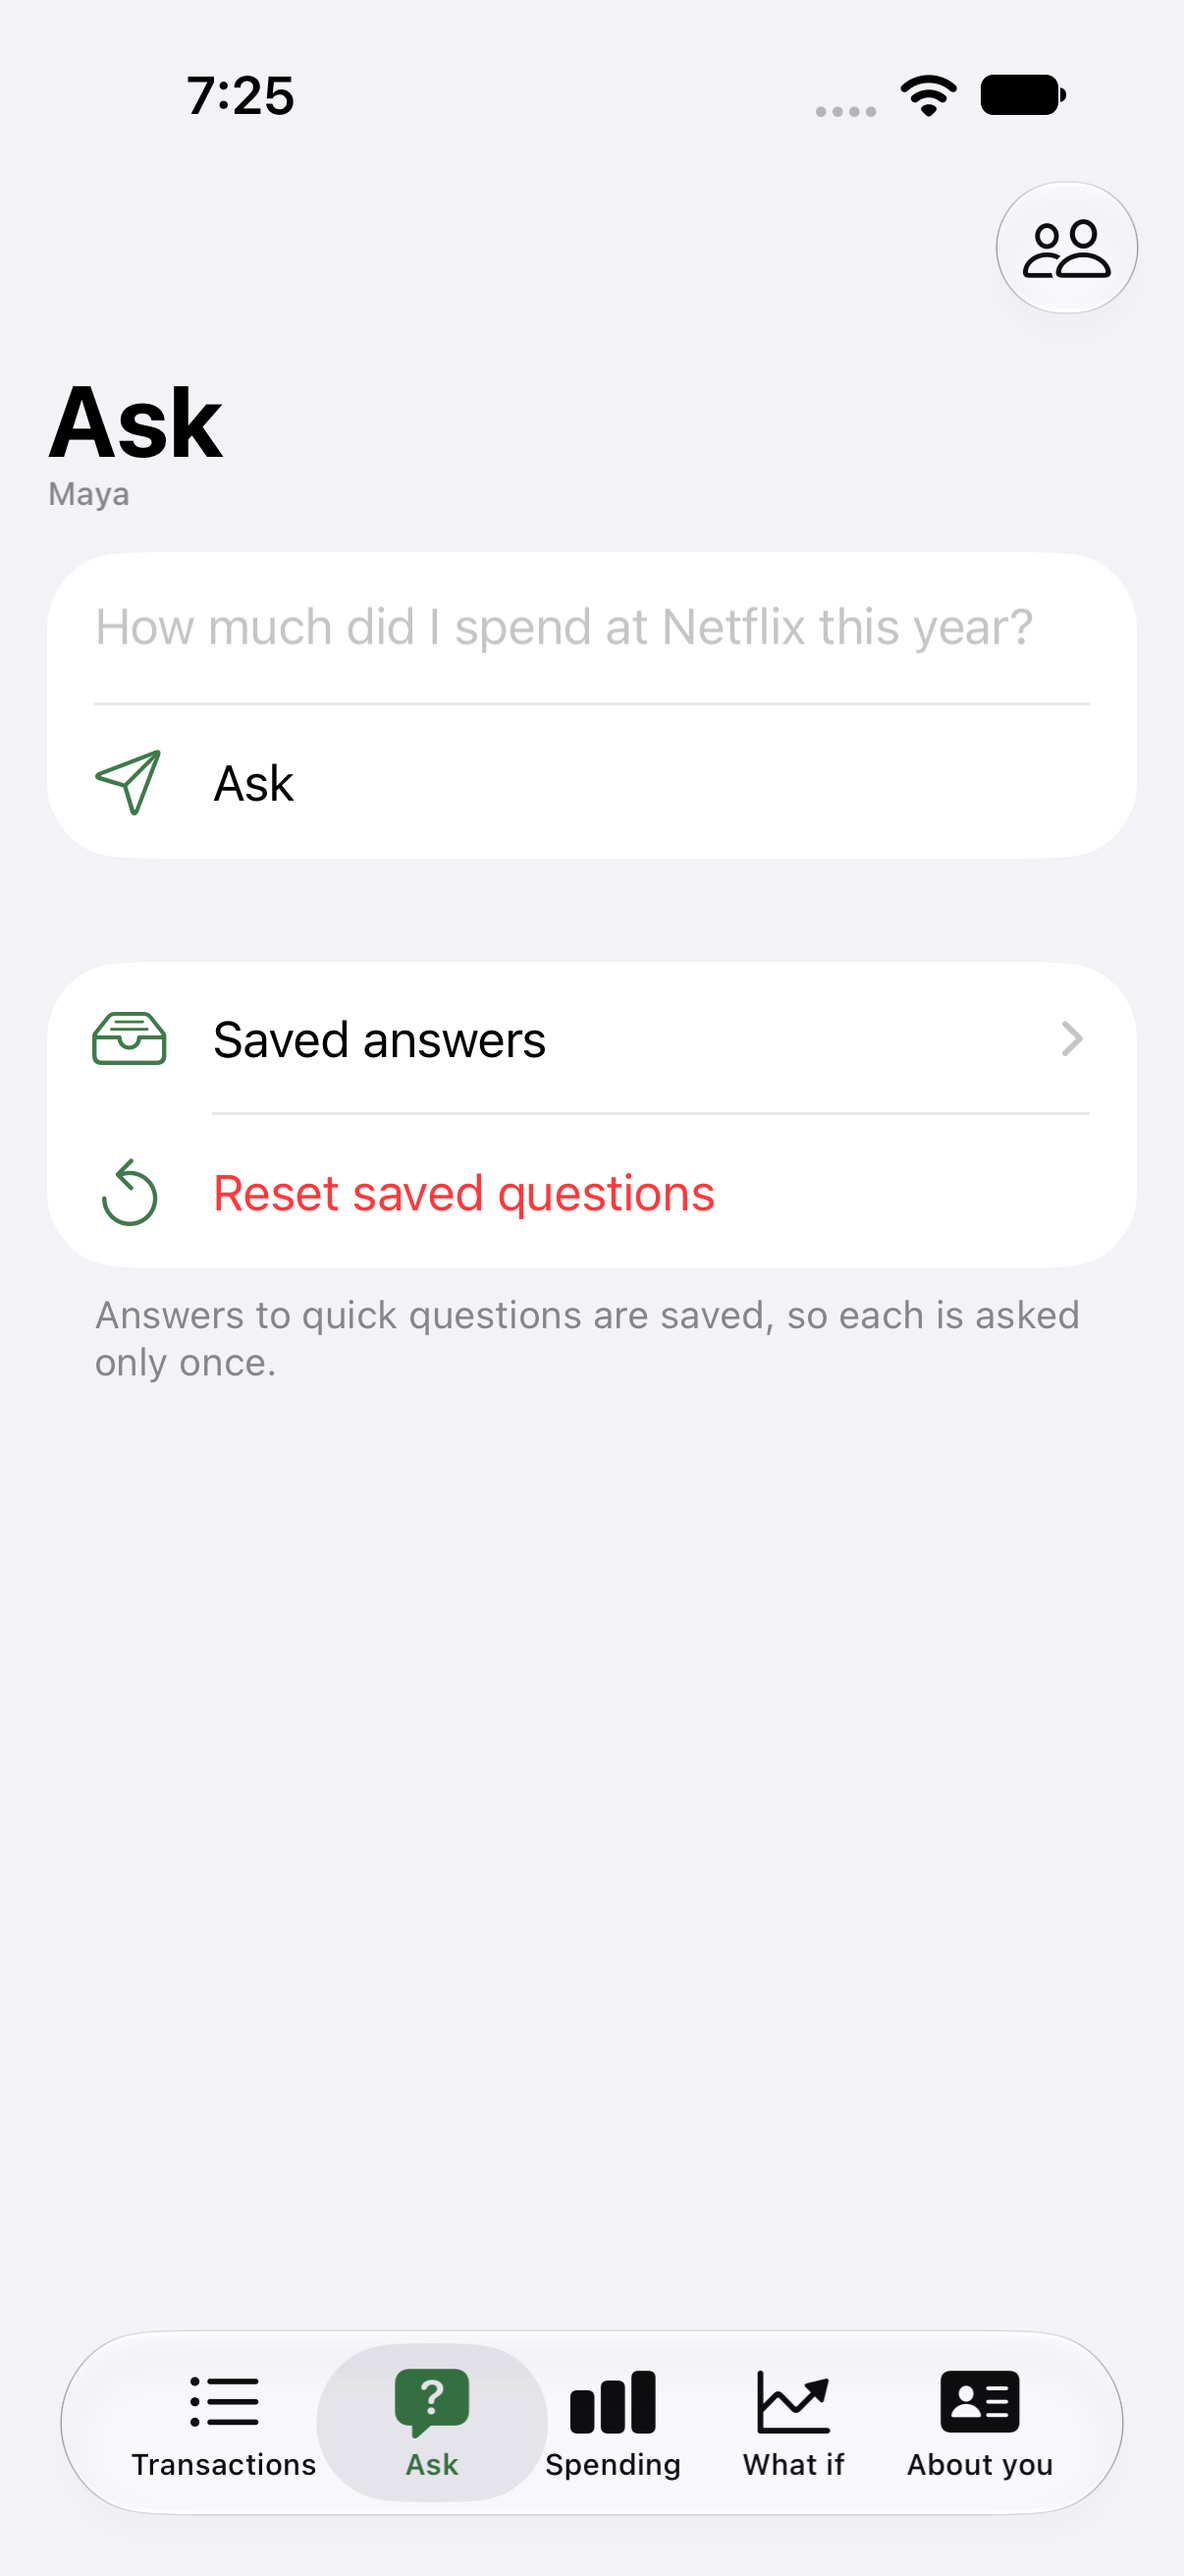
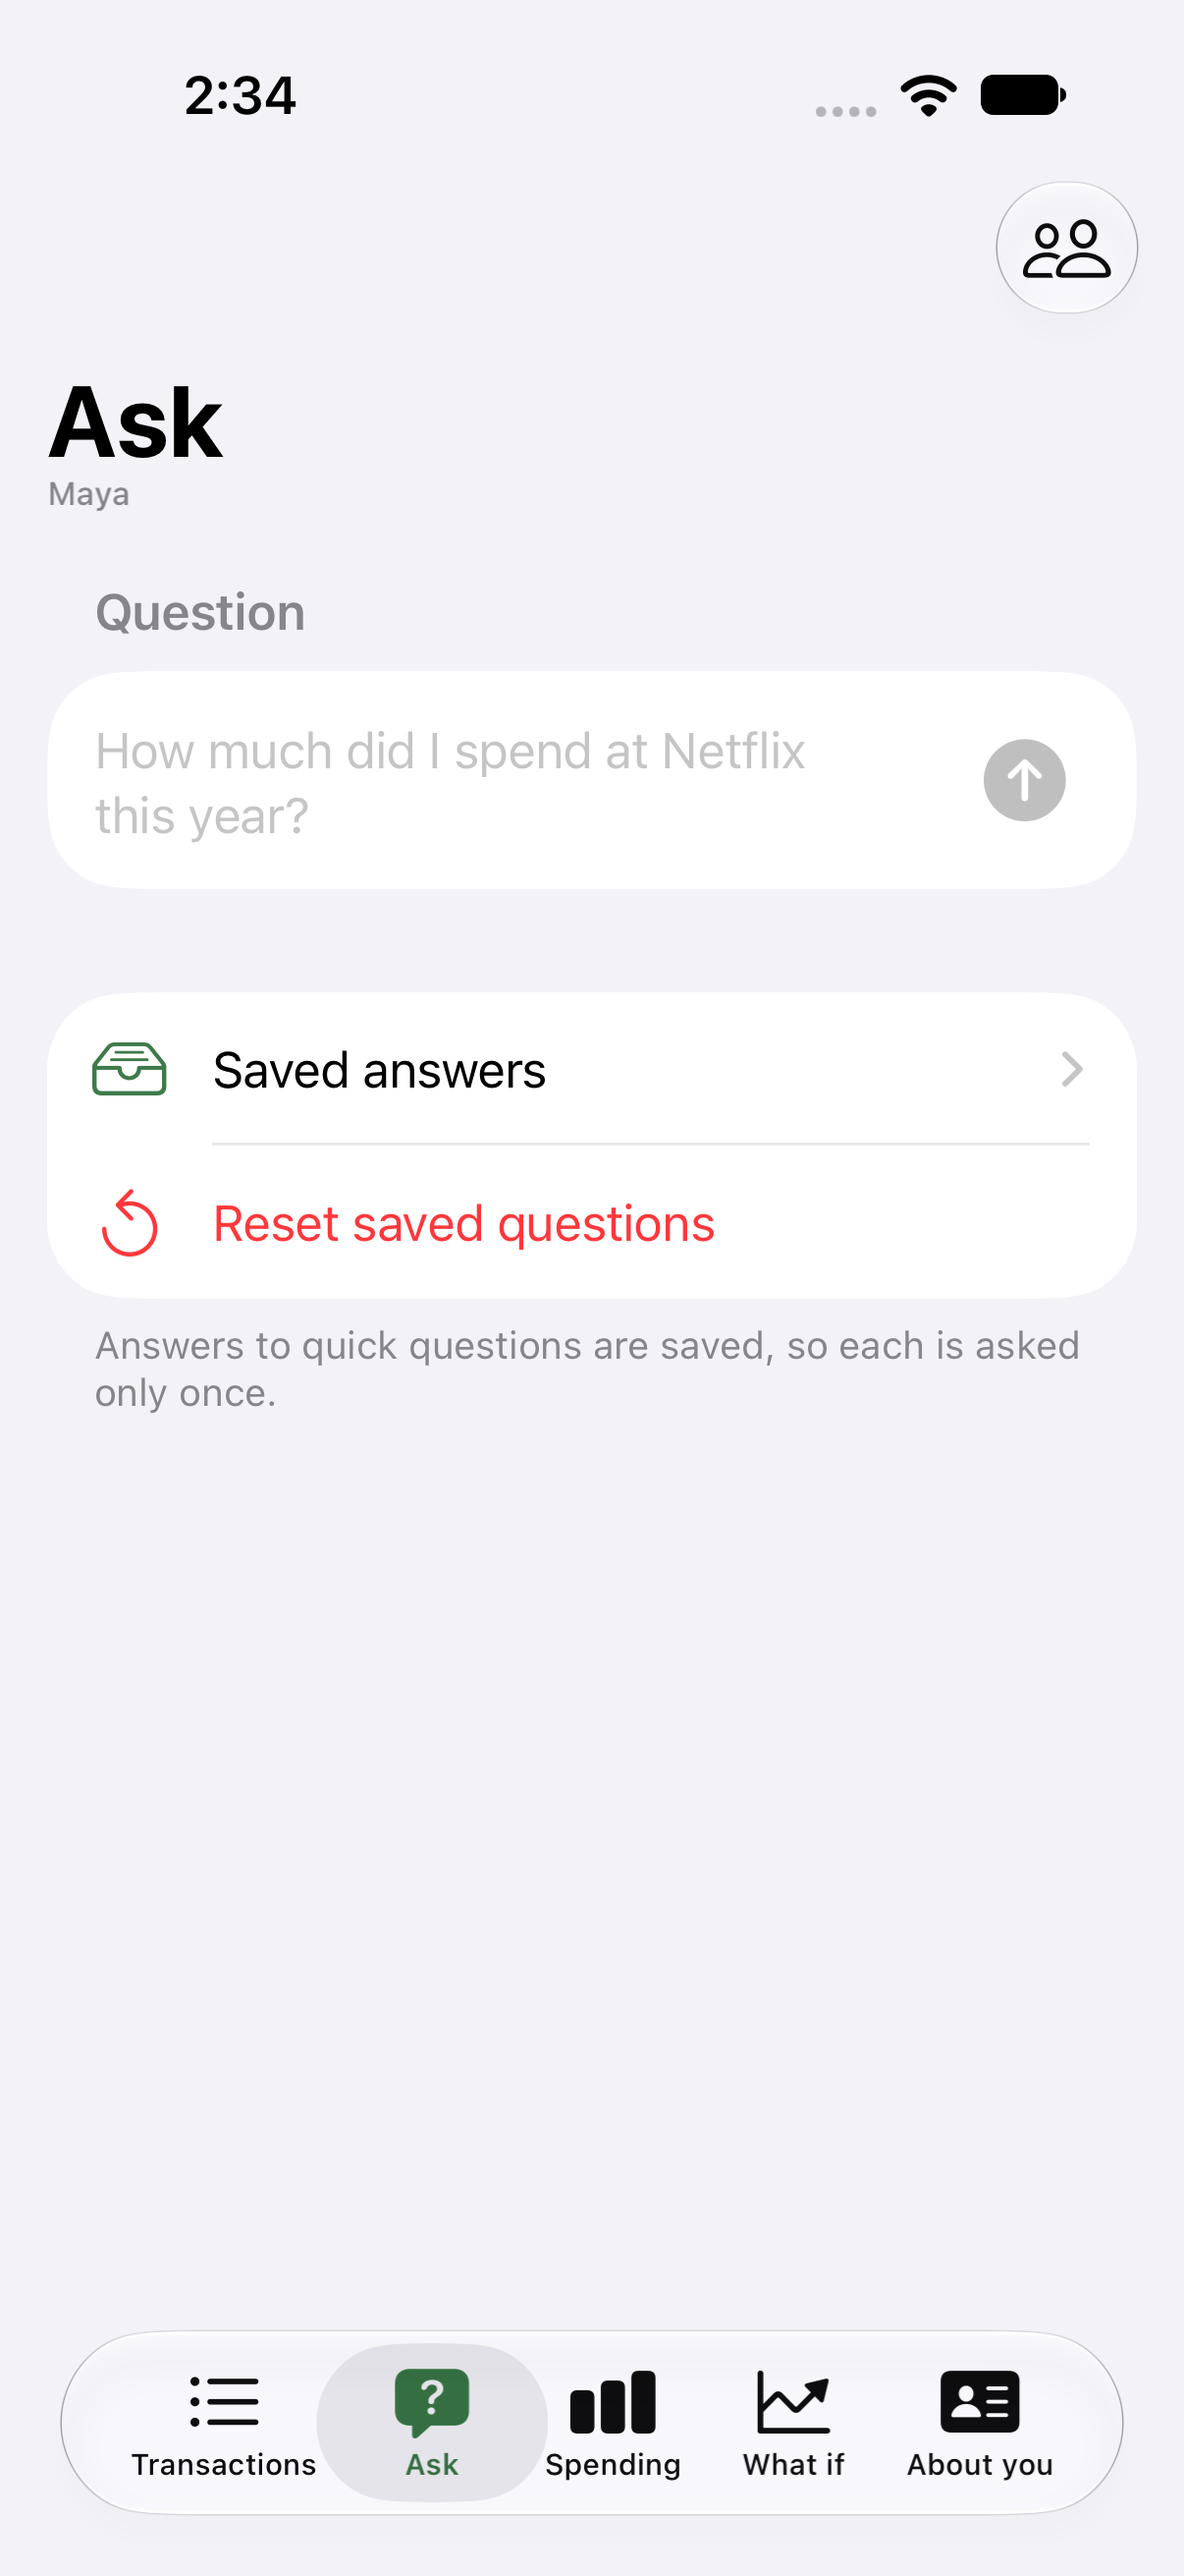
Clean up leftovers in the repo (#65) (#66)

diff --git a/docs/assumptions.md b/docs/assumptions.md
@@ -74,7 +74,7 @@ To add a rule, add one line under its area in the same shape as the others: the 
 - Every card statement closes on the last day of the month and is paid in full. — `Simulator.swift` `simulate`
 - A card is paid from the account of its latest matched payment, on the day of the month of its latest payment, for what it owed at the last month end less what was paid since. — `Simulator.swift` `simulate`
 
-## Assistant and tools
+## Tools and saved answers
 
 - Transfers and card payments are never spending, bills or income. — `Tools.swift` `spendingFilter`, `recurringCharges`
 - Refunds count against spending, and pending charges don't count until they post. — `Tools.swift` `spendingFilter`
